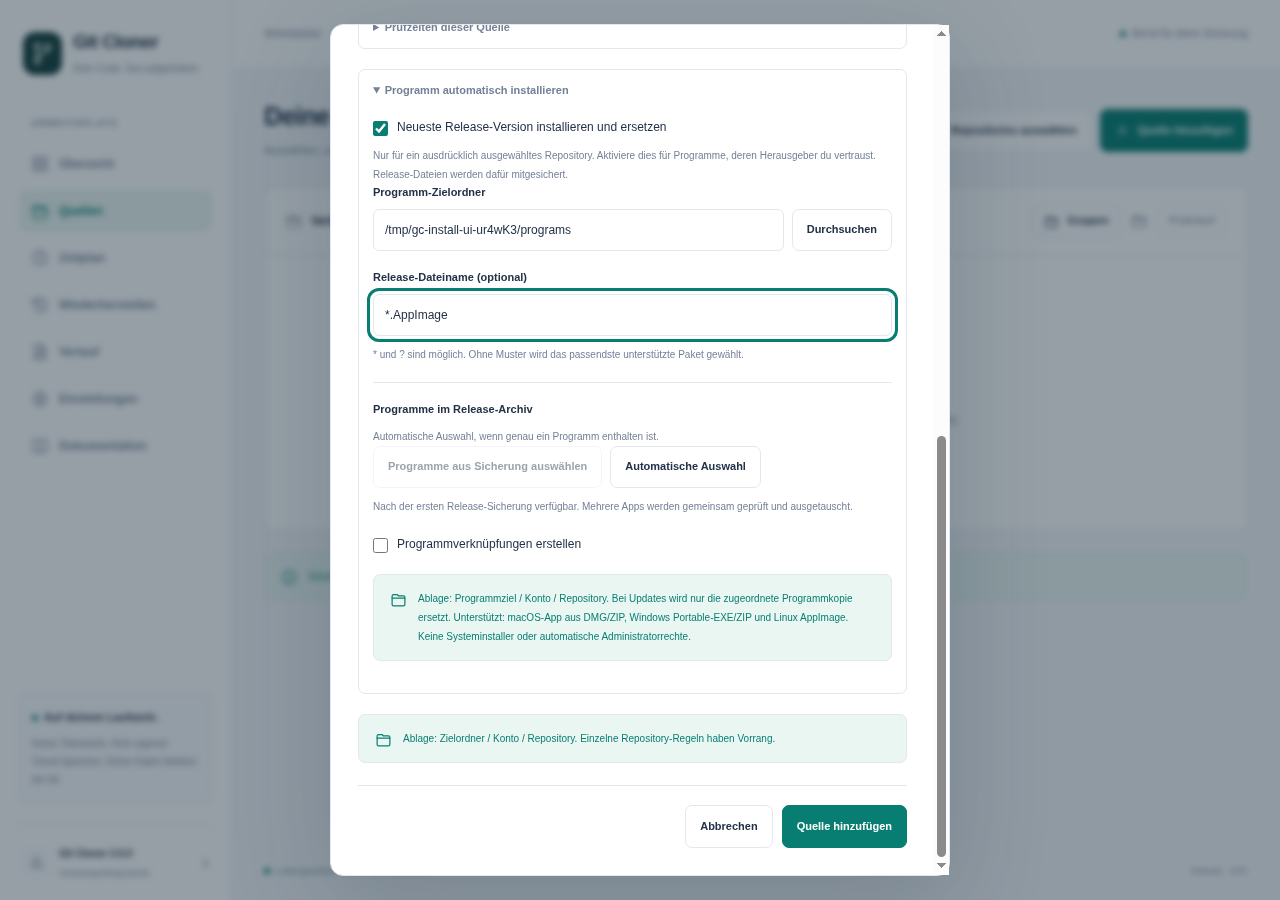
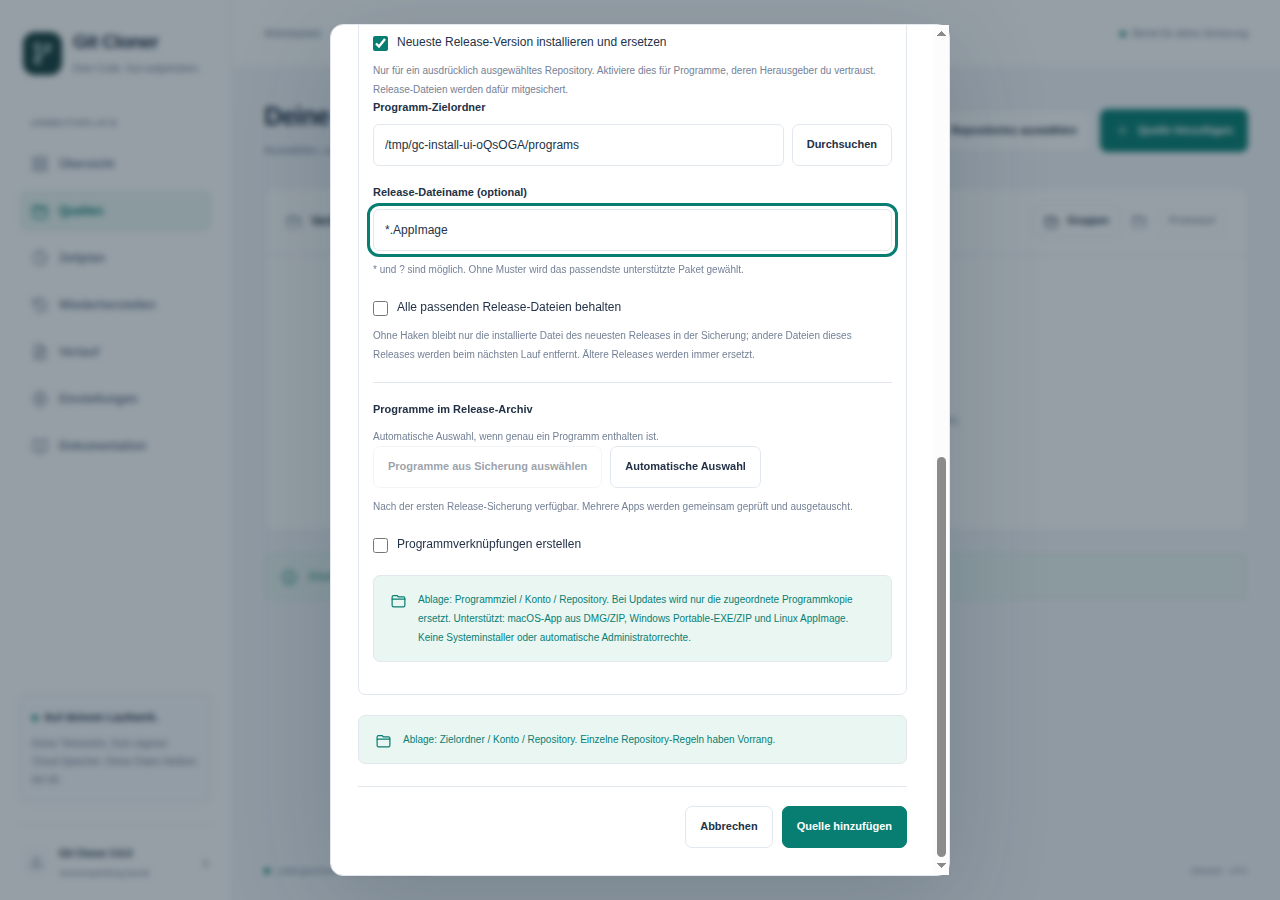
feat: resume after API limits in downloads and the OS worker, harden DMG installs and keep only the installed release file (v3.6.0) (#2)
- Release downloads (GitHub, resumed cache, GitLab/Forgejo) and GitHub secondary limits without rate headers pause the queue instead of failing.
- The OS-scheduled worker waits for resets of up to about one hour and resumes; opening the app during a worker run hands over to the GUI afterwards.
- DMG installation reads hdiutil mount points, opens license-agreement images via a converted read-only copy, keeps Finder mounts attached, closes stdin for tools, reports signature/image errors clearly and falls back to Intel apps via Rosetta.
- With automatic installation, backups keep only the installed file of the newest release unless 'Keep all matching release files' is enabled.
- E2E update fixtures derive newer versions from package.json.

diff --git a/app/renderer/release-tools.js b/app/renderer/release-tools.js
@@ -7,7 +7,7 @@ window.createGitClonerReleaseTools = function ({ api, t, esc, field, button, pan
   }
   function installationFields(source) {
     const install = source.installation || { enabled: false, destination: '', pattern: '' };
-    return `<details class="advanced"><summary>${t('Programm automatisch installieren', 'Automatically install this program')}</summary><div class="advanced-body"><label class="check-label"><input id="source-install-enabled" type="checkbox"${install.enabled ? ' checked' : ''}>${t('Neueste Release-Version installieren und ersetzen', 'Install and replace with the latest release')}</label><p class="field-help">${t('Nur für ein ausdrücklich ausgewähltes Repository. Aktiviere dies für Programme, deren Herausgeber du vertraust. Release-Dateien werden dafür mitgesichert.', 'For one explicitly chosen repository. Enable this for publishers you trust. Release assets are included in the backup.')}</p><div id="source-install-fields"${install.enabled ? '' : ' hidden'}>${field(t('Programm-Zielordner', 'Program destination folder'), 'source-install-destination', `<div class="input-group"><input id="source-install-destination" value="${esc(install.destination)}" placeholder="${t('Getrennten Programmordner auswählen', 'Choose a separate program folder')}"><button type="button" class="button secondary" data-action="program-directory">${t('Durchsuchen', 'Browse')}</button></div>`)}${field(t('Release-Dateiname (optional)', 'Release filename (optional)'), 'source-install-pattern', `<input id="source-install-pattern" maxlength="160" value="${esc(install.pattern)}" placeholder="${getState().platform === 'darwin' ? '*.dmg' : getState().platform === 'win32' ? '*portable*.exe' : '*.AppImage'}">`, t('* und ? sind möglich. Ohne Muster wird das passendste unterstützte Paket gewählt.', '* and ? are supported. Without a pattern, the best supported package is chosen.'))}${programLibrary.fields(source)}<div class="info-box">${icon('folder')}<p>${t('Ablage: Programmziel / Konto / Repository. Bei Updates wird nur die zugeordnete Programmkopie ersetzt. Unterstützt: macOS-App aus DMG/ZIP, Windows Portable-EXE/ZIP und Linux AppImage. Keine Systeminstaller oder automatische Administratorrechte.', 'Stored under program destination / owner / repository. Updates replace only the managed program copy. Supports macOS apps from DMG/ZIP, Windows portable EXE/ZIP and Linux AppImage. System installers and automatic administrator privileges are excluded.')}</p></div></div></div></details>`;
+    return `<details class="advanced"><summary>${t('Programm automatisch installieren', 'Automatically install this program')}</summary><div class="advanced-body"><label class="check-label"><input id="source-install-enabled" type="checkbox"${install.enabled ? ' checked' : ''}>${t('Neueste Release-Version installieren und ersetzen', 'Install and replace with the latest release')}</label><p class="field-help">${t('Nur für ein ausdrücklich ausgewähltes Repository. Aktiviere dies für Programme, deren Herausgeber du vertraust. Release-Dateien werden dafür mitgesichert.', 'For one explicitly chosen repository. Enable this for publishers you trust. Release assets are included in the backup.')}</p><div id="source-install-fields"${install.enabled ? '' : ' hidden'}>${field(t('Programm-Zielordner', 'Program destination folder'), 'source-install-destination', `<div class="input-group"><input id="source-install-destination" value="${esc(install.destination)}" placeholder="${t('Getrennten Programmordner auswählen', 'Choose a separate program folder')}"><button type="button" class="button secondary" data-action="program-directory">${t('Durchsuchen', 'Browse')}</button></div>`)}${field(t('Release-Dateiname (optional)', 'Release filename (optional)'), 'source-install-pattern', `<input id="source-install-pattern" maxlength="160" value="${esc(install.pattern)}" placeholder="${getState().platform === 'darwin' ? '*.dmg' : getState().platform === 'win32' ? '*portable*.exe' : '*.AppImage'}">`, t('* und ? sind möglich. Ohne Muster wird das passendste unterstützte Paket gewählt.', '* and ? are supported. Without a pattern, the best supported package is chosen.'))}<label class="check-label"><input id="source-install-keep-all" type="checkbox"${install.keepAllReleaseFiles ? ' checked' : ''}>${t('Alle passenden Release-Dateien behalten', 'Keep all matching release files')}</label><p class="field-help">${t('Ohne Haken bleibt nur die installierte Datei des neuesten Releases in der Sicherung; andere Dateien dieses Releases werden beim nächsten Lauf entfernt. Ältere Releases werden immer ersetzt.', 'When unchecked, the backup keeps only the installed file of the latest release; other files of that release are removed on the next run. Older releases are always replaced.')}</p>${programLibrary.fields(source)}<div class="info-box">${icon('folder')}<p>${t('Ablage: Programmziel / Konto / Repository. Bei Updates wird nur die zugeordnete Programmkopie ersetzt. Unterstützt: macOS-App aus DMG/ZIP, Windows Portable-EXE/ZIP und Linux AppImage. Keine Systeminstaller oder automatische Administratorrechte.', 'Stored under program destination / owner / repository. Updates replace only the managed program copy. Supports macOS apps from DMG/ZIP, Windows portable EXE/ZIP and Linux AppImage. System installers and automatic administrator privileges are excluded.')}</p></div></div></div></details>`;
   }
   function syncFilters() {
     for (const input of document.querySelectorAll('[data-release-filter],#release-scope,#source-release-scope')) {
@@ -40,6 +40,7 @@ window.createGitClonerReleaseTools = function ({ api, t, esc, field, button, pan
         source.installation = { ...source.installation, enabled: node.checked, destination: document.getElementById('source-install-destination').value.trim(), pattern: document.getElementById('source-install-pattern').value.trim() }; document.getElementById('source-install-fields').hidden = !node.checked;
         if (node.checked) { source.backup ||= structuredClone(getState().config.backup); if(!source.backup.metadata.releases){source.backup.releaseScope='system';document.getElementById('source-release-scope').value='system';} source.backup.metadata.releases = true; document.getElementById('source-own-backup').checked = true; document.getElementById('source-backup-fields').hidden = false; document.querySelector('[data-source-metadata="releases"]').checked = true; }
       }
+      if (node.id === 'source-install-keep-all') source.installation = { ...source.installation, keepAllReleaseFiles: node.checked };
       if (node.dataset.storageSelect) { if (node.checked) selected.add(node.dataset.storageSelect); else selected.delete(node.dataset.storageSelect); renderStorage(); }
       if (node.id === 'storage-select-page') { for (const entry of storage.entries.slice(offset, offset + 50)) { if (node.checked) selected.add(entry.id); else selected.delete(entry.id); } renderStorage(); }
       if (node.dataset.metadata || node.dataset.sourceMetadata || node.id === 'source-own-backup' || node.id === 'source-install-enabled') syncFilters();

diff --git a/docs/ANLEITUNG.md b/docs/ANLEITUNG.md
@@ -155,7 +155,9 @@ Optional **Unabhängige OS-Zeitplanung** einschalten: Native installierte Pakete
 
 Öffentliche Quellen funktionieren ohne Anmeldung. GitHub erlaubt anonym typischerweise 60 API-Anfragen pro Stunde. Private Repositories oder größere Mengen benötigen passende Leserechte.
 
-Ist das API-Kontingent aufgebraucht, pausiert die Warteschlange mit **Wartet auf API-Limit · automatische Fortsetzung** und zeigt den voraussichtlichen Freigabezeitpunkt. Bereits gesicherte Repositories bleiben erledigt. Nach der Freigabe setzt die App automatisch fort; vorher stellt sie keine neuen automatischen Anfragen. Nach dem Hinterlegen eines Lesetokens kann **Fortsetzen** sofort gewählt werden.
+Ist das API-Kontingent aufgebraucht, pausiert die Warteschlange mit **Wartet auf API-Limit · automatische Fortsetzung** und zeigt den voraussichtlichen Freigabezeitpunkt. Bereits gesicherte Repositories bleiben erledigt. Nach der Freigabe setzt die App automatisch fort; vorher stellt sie keine neuen automatischen Anfragen. Nach dem Hinterlegen eines Lesetokens kann **Fortsetzen** sofort gewählt werden. Das gilt auch, wenn das Limit erst beim Herunterladen einer Release-Datei auftritt; bereits geladene Teile bleiben für die Fortsetzung erhalten.
+
+Während die App läuft – auch nur im Infobereich bzw. in der Menüleiste –, prüft sie alle 30 Sekunden und setzt nach dem Freigabezeitpunkt selbstständig fort. Der GUI-freie OS-Worker wartet ebenfalls selbst bis zur Freigabe, wenn diese höchstens etwa eine Stunde entfernt ist, und arbeitet die Warteschlange dann weiter ab. Längere Wartezeiten übernimmt der nächste geplante Lauf. Wird die App während eines Worker-Laufs geöffnet, erscheint das Fenster, sobald der Worker beendet ist; eine laufende Wartezeit wird dafür abgebrochen und von der App fortgeführt.
 
 Unter **Einstellungen → Konten** lassen sich mehrere benannte Zugänge anlegen. Jede Quelle wählt ihren Zugang in den erweiterten Einstellungen.
 
@@ -213,6 +215,7 @@ Der Diagnoseexport entfernt Konto-/Repository-Namen, Pfade, Commit-IDs und rohe 
 | Platzmangel | Platz für den alten und neuen Stand sowie Reserve freigeben; Metadaten/LFS können größer als die Schätzung sein. |
 | GitHub 401 / 403 | Gültigkeit, Repository-Freigabe, Org-SSO und API-Limit prüfen. |
 | Wartet auf API-Limit | Freigabezeitpunkt abwarten; die Warteschlange setzt automatisch fort und behält erledigte Repositories. Ein Lesetoken unter Einstellungen → Konten erhöht das Limit, danach sofort **Fortsetzen** möglich. |
+| DMG wird nicht installiert | Meldung in der Übersicht prüfen: Eine fehlende oder ungültige Signatur, ein Programm für eine andere CPU oder mehrere gleichwertige Pakete verhindern den Austausch. Im letzten Fall den **Release-Dateinamen** eingrenzen, etwa `*arm64.dmg`. |
 | LFS fehlt | Git LFS installieren oder die Option abschalten; vorhandener erfolgreicher Stand bleibt erhalten. |
 | Passwort fehlt/falsch | Das Passwort dieses Archivs eingeben. Nach einem Wechsel kann für ältere Archive noch das alte gelten. |
 | Kein automatischer Lauf | Quelle und Zeitplan aktiviert/gespeichert? Rechner wach? App im Hintergrund oder OS-Worker aktiv? |
@@ -325,7 +328,7 @@ Die App ordnet Pakete anhand ihrer Namen und Dateiendungen zu. Dateien ohne eind
 
 Die Einstellung kann unter **Sicherungsumfang dieser Quelle** für einzelne Quellen überschrieben werden. Ein Download wird in den neuen Sicherungsstand integriert. Die App prüft angegebene Dateigrößen und vorhandene SHA256-Digests beim Herunterladen; bei Fehlern bleibt der bisherige erfolgreiche Stand erhalten. Die Platzprüfung berücksichtigt bekannte Release-Dateigrößen zusätzlich zum Repository.
 
-Gesichert werden Dateien des neuesten offiziellen, stabilen Releases je Repository. Frühere Release-Metadaten können im JSON-Export enthalten sein, ihre alten Download-Dateien werden nicht zusätzlich aufgehoben. Die Auswahl bezieht sich auf deine Sicherungsquellen. Die Update-Prüfung für Git Cloner selbst informiert weiterhin nur und installiert keine Programmversion automatisch.
+Gesichert werden Dateien des neuesten offiziellen, stabilen Releases je Repository. Erscheint ein neues Release, ersetzt der neue Sicherungsstand die Dateien des älteren Releases; alte Download-Dateien werden nicht zusätzlich aufgehoben. Frühere Release-Metadaten können im JSON-Export enthalten sein. Mit automatischer Programminstallation bleibt standardmäßig nur die installierte Datei erhalten (siehe Abschnitt 35). Die Auswahl bezieht sich auf deine Sicherungsquellen. Die Update-Prüfung für Git Cloner selbst informiert weiterhin nur und installiert keine Programmversion automatisch.
 
 ![Release-Auswahl und automatisch erkanntes System](screenshots/release-filter.png)
 
@@ -533,13 +536,14 @@ Diese Option aktualisiert **das Programm aus deiner gewählten Quelle**, nicht G
 2. **Programm automatisch installieren** aufklappen und **Neueste Release-Version installieren und ersetzen** aktivieren. Dadurch werden eigene Sicherungsoptionen mit Release-Dateien aktiviert. Waren Release-Dateien zuvor aus, wird zunächst das eigene Betriebssystem gewählt. Bereits aktive Release-Filter bleiben erhalten.
 3. Einen bestehenden **Programm-Zielordner** getrennt von allen Sicherungsordnern wählen. Die App legt darin eine zugeordnete Ablage unter `Konto/Repository` an. Für andere Anbieter kommt eine eigene Anbieter-/Server-Zuordnung hinzu.
 4. Optional den **Release-Dateinamen** eingrenzen: zum Beispiel `*.dmg`, `*portable*.exe` oder `*.AppImage`. `*` und `?` sind möglich. Ohne Muster wird ein passend klassifiziertes unterstütztes Paket bevorzugt; bei gleichwertigen mehreren Kandidaten wird eine genauere Auswahl verlangt.
+   Standardmäßig bewahrt die Sicherung danach **nur die zu installierende Datei des neuesten Releases** auf, zum Beispiel genau ein DMG. Die übrigen Dateien dieses Releases und ältere Releases werden beim nächsten Lauf aus dem Sicherungsstand entfernt; bereits vorhandene passende Dateien werden dafür lokal übernommen statt neu geladen. Wer zusätzlich alle passenden Release-Dateien behalten möchte, aktiviert **Alle passenden Release-Dateien behalten**. Lässt sich keine eindeutige Programmdatei bestimmen, bleiben die gefilterten Dateien erhalten.
 5. Quelle speichern und **Jetzt prüfen** starten oder den nächsten geplanten Lauf abwarten.
 
 Nach der erfolgreichen Sicherung prüft die App die tatsächlichen Release-Dateien erneut und bereitet das Programm getrennt vor. Erst danach wird die vorhandene zugeordnete Programmkopie ersetzt. Ist Version und Inhalt bereits aktuell, bleibt die vorhandene Installation bestehen. Fehler erhalten den bisherigen Programmstand und erscheinen zusätzlich zum Sicherungsstatus sowie im Fehlerzähler, Verlauf und den eingestellten Fehlermeldungen. Die Übersicht zeigt den installierten Tag und bietet **Programmordner öffnen**. Programme werden durch die Installation nicht automatisch gestartet.
 
 | System | Unterstützter automatischer Installationsweg |
 | --- | --- |
-| macOS | Ein eindeutig erkennbares `.app`-Bundle aus DMG oder ZIP. Signatur, Bundle und tatsächliche Prozessorarchitektur werden geprüft. Ad-hoc-signierte Bundles sind möglich; eigene Signierzertifikate werden nicht eingerichtet. Laufende Mac-Programme werden später erneut versucht. |
+| macOS | Ein eindeutig erkennbares `.app`-Bundle aus DMG oder ZIP. Signatur, Bundle und tatsächliche Prozessorarchitektur werden geprüft. Ad-hoc-signierte Bundles sind möglich; eigene Signierzertifikate werden nicht eingerichtet. Laufende Mac-Programme werden später erneut versucht. DMGs mit Lizenzdialog werden ohne Rückfrage über eine schreibgeschützte Kopie geöffnet; mit dem Einschalten der Installation stimmst du den Bedingungen dieses Herausgebers zu. Ein bereits im Finder geöffnetes DMG wird gelesen und bleibt geöffnet. Auf Apple-Silicon-Macs werden reine Intel-Programme nur gewählt, wenn kein natives Paket vorhanden ist; sie laufen über Rosetta 2. |
 | Windows | Als Portable gekennzeichnete EXE oder ZIP mit einem eindeutig erkennbaren Hauptprogramm und Begleitdateien. PE-Kopf und tatsächliche Architektur werden geprüft. |
 | Linux | AppImage mit passendem ELF-/AppImage-Kopf und Prozessorarchitektur. Die Datei wird ausführbar in der zugeordneten Ablage gespeichert. |
 

diff --git a/docs/GUIDE.en.md b/docs/GUIDE.en.md
@@ -135,7 +135,8 @@ The overview adds elapsed time, approximate remaining time, measured downloads, 
 | Drive missing/identity mismatch | Connect the original drive or deliberately configure a new destination. |
 | Existing foreign folder | Choose a new target or move your own data safely. The app will not overwrite it. |
 | GitHub 401/403 | Check token validity, permissions, organization SSO and rate limits. |
-| Waiting for API limit | The queue resumes automatically after the displayed release time and keeps finished repositories. A read token under Settings → Accounts raises the limit; Resume retries immediately. |
+| Waiting for API limit | The queue resumes automatically after the displayed release time and keeps finished repositories, including limits hit while downloading release files. The running app checks every 30 seconds; the OS worker waits for resets up to about one hour itself. A read token under Settings → Accounts raises the limit; Resume retries immediately. |
+| DMG not installed | Check the overview message: a missing/invalid signature, a program for another CPU or several equal packages block replacement. Narrow the release filename, for example `*arm64.dmg`. |
 | Missing LFS | Install Git LFS or disable the option. The previous successful backup stays intact. |
 | Password error | Enter this archive's original password, including the old password after a recent change if applicable. |
 | No automatic check | Confirm enabled sources, saved times, awake computer, running app or enabled native worker. |
@@ -276,11 +277,12 @@ This option updates the program from your selected repository. Git Cloner itself
 2. Expand **Automatically install this program** and enable **Install and replace with the latest release**. Source-specific release backups are enabled; newly enabled downloads initially select your OS, while existing active filters are retained.
 3. Choose an existing program destination separate from backup destinations. Managed copies live under `owner/repository`; other providers use their own namespace.
 4. Optionally select a filename pattern, such as `*.dmg`, `*portable*.exe` or `*.AppImage`. The best supported candidate is chosen when unambiguous.
+   By default the backup then keeps **only the file that is installed from the latest release**, for example exactly one DMG. Other files of that release and older releases are removed on the next run; existing matching files are reused locally instead of downloaded again. Enable **Keep all matching release files** to retain the full filtered release. If no single program file can be determined, the filtered files are kept.
 5. Save and run **Check now**, or wait for the schedule.
 
 After a successful backup, actual asset integrity is checked and a separate program copy is prepared. Only then is the previous managed copy replaced. Current version/content is skipped. Failure preserves the previous program and is shown alongside backup status. The overview provides **Open program folder**. Installation never launches downloaded apps.
 
-macOS supports one signed/ad-hoc `.app` from DMG/ZIP, validating its signature and actual CPU; running apps are deferred. Windows supports portable EXE/ZIP, validating PE headers and CPU and retaining packaged companion files. Linux supports AppImage with matching ELF/AppImage headers and CPU. System installers (MSI/NSIS, PKG, DEB, RPM), arbitrary installation scripts and automatic administrator elevation are excluded. Missing permissions or locked files retain the old copy. Importing settings disables installation until enabled locally again.
+macOS supports one signed/ad-hoc `.app` from DMG/ZIP, validating its signature and actual CPU; running apps are deferred. DMGs with a license agreement open through a read-only copy without a prompt; enabling installation accepts that publisher's terms. A DMG already open in Finder is read in place and stays mounted. On Apple silicon, Intel-only apps are chosen only when no native package exists and run through Rosetta 2. Windows supports portable EXE/ZIP, validating PE headers and CPU and retaining packaged companion files. Linux supports AppImage with matching ELF/AppImage headers and CPU. System installers (MSI/NSIS, PKG, DEB, RPM), arbitrary installation scripts and automatic administrator elevation are excluded. Missing permissions or locked files retain the old copy. Importing settings disables installation until enabled locally again.
 
 Trust the selected publisher and keep personal data outside managed program copies. Additional files in the managed root and foreign staging directories block replacement. Changing destinations retains old installations at their current location. Interrupted swaps recover through ownership markers on the next installation attempt; hard termination can leave temporary working data.
 

diff --git a/docs/RELEASE-NOTES.md b/docs/RELEASE-NOTES.md
@@ -1,9 +1,8 @@
-Git Cloner **3.5.1** ist ein Wartungs-Release für API-Limits, neuere Git-Versionen und geringeren Energiebedarf im Leerlauf. Einstellungen und vorhandene Sicherungen bleiben unverändert.
+Git Cloner **3.6.0** setzt nach API-Limits zuverlässiger fort, macht die automatische DMG-Installation robuster und hält Release-Sicherungen mit Programminstallation schlank.
 
-- **API-Limit statt Fehlerlawine:** Meldet GitHub, GitLab oder Forgejo ein aufgebrauchtes Kontingent (HTTP 403 mit `x-ratelimit-remaining: 0`, HTTP 429 oder `Retry-After`), pausiert die Warteschlange mit **Wartet auf API-Limit · automatische Fortsetzung** und zeigt den voraussichtlichen Freigabezeitpunkt. Erledigte Repositories bleiben erledigt; betroffene Repositories werden als wartend statt als Fehler markiert. Andere Anbieter und Konten laufen weiter. Vor dem Freigabezeitpunkt erfolgen keine automatischen neuen Anfragen; **Fortsetzen** bleibt möglich, zum Beispiel nach dem Hinterlegen eines Lesetokens. Kurze Wartefristen bis 60 Sekunden werden wie bisher direkt abgewartet.
-- **Bessere Diagnose:** Die frühere Meldung „GitHub antwortet vorübergehend mit HTTP 403“ wird auch in bereits gespeicherten Läufen als API-Limit statt als Zugriffsproblem erkannt. Der anonymisierte Export enthält dafür eine Diagnosekategorie, weiterhin ohne Namen, Pfade, Tokens oder Rohmeldungen.
-- **Kompatibilität mit neueren Git-Versionen:** Git ab 2.56 verweigert standardmäßig implizite Bare-Repositories (`safe.bareRepository=explicit`). Vollständige Mirrors (Prüfung, Aktualisierung, LFS, Dateiauswahl und Wiederherstellung) verwenden jetzt ein ausdrückliches Git-Verzeichnis.
-- **Weniger Akkuverbrauch im Leerlauf:** Keine Zustandsübertragung alle 30 Sekunden mehr, wenn sich nichts sichtbar ändert. Ein verstecktes oder minimiertes Fenster erhält Aktualisierungen erst beim erneuten Anzeigen. Die automatische Laufwerkssuche sperrt und benachrichtigt nur noch, wenn ein Ziel fehlt und sich die angeschlossenen Laufwerke geändert haben.
-- **Aufgeräumt:** Der Flatpak-Diagnose-Workflow startet nur noch manuell.
+- **API-Limit auch bei Downloads:** Ein aufgebrauchtes Kontingent beim Herunterladen einer Release-Datei pausiert jetzt ebenfalls die Warteschlange, statt das Repository als Fehler abzuschließen. Bereits geladene Teile bleiben für die Fortsetzung erhalten. GitHub-Sekundärlimits, die ohne Limit-Kopfzeilen als HTTP 403 gemeldet werden, werden anhand der Antwort erkannt.
+- **Fortsetzung auch ohne geöffnete App:** Die laufende App prüft weiterhin alle 30 Sekunden und setzt nach der Freigabe automatisch fort. Neu wartet auch der GUI-freie OS-Worker eine Freigabe von bis zu etwa einer Stunde selbst ab und arbeitet die Warteschlange danach weiter ab. Wird die App währenddessen geöffnet, übernimmt das App-Fenster.
+- **Robustere DMG-Installation:** Mountpunkte werden aus der `hdiutil`-Antwort gelesen; ein bereits im Finder geöffnetes DMG wird gelesen und bleibt geöffnet. DMGs mit Lizenzdialog blockieren nicht mehr bis zum Zeitlimit, sondern werden über eine schreibgeschützte Kopie ohne Rückfrage geöffnet. Fehlende oder ungültige Signaturen und nicht lesbare Abbilder erscheinen als verständliche Meldung. Auf Apple-Silicon-Macs werden reine Intel-Programme gewählt, wenn kein natives Paket existiert (Rosetta 2).
+- **Nur die neueste Programmdatei behalten:** Bei automatischer Programminstallation speichert die Sicherung standardmäßig nur noch die tatsächlich installierte Datei des neuesten Releases, zum Beispiel genau ein DMG. Andere Dateien dieses Releases und ältere Releases werden beim nächsten Lauf entfernt; vorhandene Dateien werden lokal übernommen statt neu geladen. **Alle passenden Release-Dateien behalten** stellt das bisherige Verhalten je Quelle wieder her.
 
-Ohne Token erlaubt GitHub typischerweise 60 API-Anfragen pro Stunde; Release- und Metadatenprüfungen benötigen mehrere Anfragen je Repository. Ein Lesetoken unter **Einstellungen → Konten** erhöht das Limit deutlich. MIT Open Source ohne Garantie für Fehlerfreiheit. Git-Cloner-Pakete haben keine verifizierte Herausgebersignatur; macOS nutzt Ad-hoc-Signierung ohne Notarisierung.
+Ohne Token erlaubt GitHub typischerweise 60 API-Anfragen pro Stunde. Ein Lesetoken unter **Einstellungen → Konten** erhöht das Limit deutlich. MIT Open Source ohne Garantie für Fehlerfreiheit. Git-Cloner-Pakete haben keine verifizierte Herausgebersignatur; macOS nutzt Ad-hoc-Signierung ohne Notarisierung.

diff --git a/docs/VALIDIERUNG.md b/docs/VALIDIERUNG.md
@@ -1,6 +1,15 @@
 # Tatsächlich ausgeführte Prüfungen
 
-Stand: 6. November 2026, Git Cloner **3.5.1**. Prüfungen mit GitHub-Antworten aus Test-Fixtures und tatsächliche Plattformläufe werden getrennt ausgewiesen.
+Stand: 6. November 2026, Git Cloner **3.6.0**. Prüfungen mit GitHub-Antworten aus Test-Fixtures und tatsächliche Plattformläufe werden getrennt ausgewiesen.
+
+## Lokale Prüfung von Version 3.6.0
+
+| Prüfung | Ergebnis |
+| --- | --- |
+| Node 26, `npm run check` mit Git 2.51 | ESLint und **266 Tests erfolgreich**, keine Fehler; fünf native Mac-/Windows-Prüfungen unter Linux übersprungen. |
+| Echte Electron-GUI Linux/Xvfb | Release-, Installations-, Worker-, Update- und Screenshot-Spezifikationen: **21 Tests erfolgreich**. Simulierte neuere Releases für Update-Hinweise werden jetzt aus der Paketversion abgeleitet. |
+| Neue gezielte Tests | GitHub-Sekundärlimit ohne Kopfzeilen, API-Limit beim direkten und fortgesetzten Release-Download (GitHub und Forgejo) mit erhaltenem vorherigem Stand, OS-Worker wartet bis zur Freigabe und schließt die Warteschlange ab (ohne Warten bei zu langer Frist oder Abbruch), DMG-Mountpunkte aus `hdiutil -plist`, Lizenz-DMG über konvertierte Kopie, geöffnete Finder-Mounts bleiben erhalten, verständliche Signatur-/Abbildfehler, geschlossene Standardeingabe für Installationswerkzeuge, Rosetta-Rückfall und Sicherung nur der installierten Datei des neuesten Releases (mit Opt-out). |
+| Hinweis | Die DMG-Tests unter Linux verwenden simulierte macOS-Werkzeuge; echte DMG-Installationen prüft die CI auf macOS-Runnern. |
 
 ## Lokale Prüfung von Version 3.5.1
 

diff --git a/docs/ROADMAP.md b/docs/ROADMAP.md
@@ -102,3 +102,7 @@ Weitere Detailansichten bleiben das separat dokumentierte Konzept. Die drei zule
 ## Wartung in Version 3.5.1
 
 API-Limits pausieren die Warteschlange bis zur Freigabe, statt die übrigen Repositories als Fehler abzuschließen. Mirrors funktionieren mit Git ab 2.56 (`safe.bareRepository=explicit`). Leerlauf-Aktualisierungen, versteckte Fenster und die automatische Laufwerkssuche verursachen weniger Arbeit.
+
+## Version 3.6.0
+
+API-Limits beim Release-Download und GitHub-Sekundärlimits ohne Kopfzeilen pausieren ebenfalls die Warteschlange. Der OS-Worker wartet kurze Freigabezeiten selbst ab und übergibt an ein geöffnetes App-Fenster. Die DMG-Installation liest echte Mountpunkte, öffnet Abbilder mit Lizenzdialog ohne Rückfrage, lässt Finder-Mounts geöffnet und erlaubt Intel-Programme über Rosetta 2 als Rückfall. Mit automatischer Installation bleibt nur die installierte Datei des neuesten Releases gespeichert.
